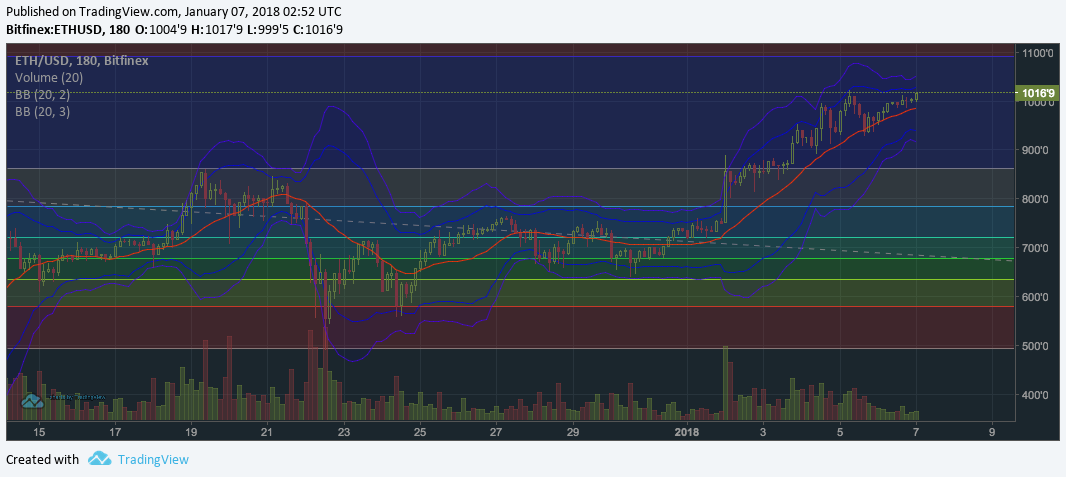
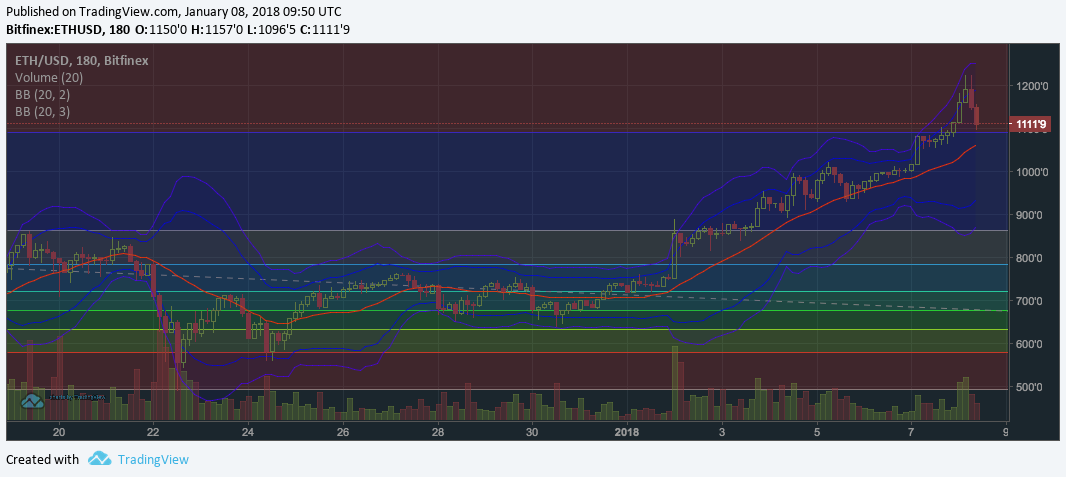
fibs

diff --git a/_includes/head.html b/_includes/head.html
@@ -3,7 +3,7 @@
 {% unless page.stories %}<meta name="Googlebot-News" content="noindex, nofollow">{% endunless %}
 
 <link rel="canonical" href="{{ page.url | replace:'index.html','' | prepend: site.baseurl | prepend: site.url }}">
-<link rel="alternate" hreflang="en-us" href="{{ page.url | replace:'index.html','' | prepend: site.baseurl | prepend: site.url }}">
+<link rel="alternate" hreflang="en" href="{{ page.url | replace:'index.html','' | prepend: site.baseurl | prepend: site.url }}">
 {% unless page.title %}<link rel="alternate" hreflang="de" href="https://de.altcointrading.net">{% endunless %}
 {% if page.german %}<link rel="alternate" hreflang="de" href="https://de.altcointrading.net/{{ page.german }}">{% endif %}
 

diff --git a/_includes/head-news.html b/_includes/head-news.html
@@ -3,7 +3,7 @@
 {% unless page.stories %}<meta name="Googlebot-News" content="noindex, nofollow">{% endunless %}
 
 <link rel="canonical" href="{{ page.url | replace:'index.html','' | prepend: site.baseurl | prepend: site.url }}">
-<link rel="alternate" hreflang="en-us" href="{{ page.url | replace:'index.html','' | prepend: site.baseurl | prepend: site.url }}">
+<link rel="alternate" hreflang="en" href="{{ page.url | replace:'index.html','' | prepend: site.baseurl | prepend: site.url }}">
 {% if page.german %}<link rel="alternate" hreflang="de" href="https://de.altcointrading.net/{{ page.german }}">{% endif %}
 
 <title>{% if page.title %}{{ page.title }}{% else %}{{ site.title }}{% endif %}</title>

diff --git a/_layouts/fibs.html b/_layouts/fibs.html
@@ -120,7 +120,7 @@ layout: default-news
               </section>
 
               <section>
-                
+
                 <h2>Fibs in a spreadsheet</h2>
 
               </section>
@@ -157,9 +157,7 @@ layout: default-news
               <h2>Archive</h2>
 
               <ul>
-              {% loop_directory directory:fibs/archive iterator:image filter:*.png sort:descending %}
-                 <li><a target="_blank" href="/fibs/archive/{{ image }}.png">{{ image }}</a></li>
-              {% endloop_directory %}
+                 <li><a target="_blank" href="https://github.com/AT-Publishing/website/commits/master/_fibs/daily.md">Versioned history</a></li>
               </ul>
 
 

diff --git a/_layouts/forestry.html b/_layouts/forestry.html
@@ -48,7 +48,7 @@ layout: default-news
             {{ site.ledger_728-90_animated }}
           </div>
           <div>
-            {{ content | replace: 'Coinbase ', site.ref.coinbase | replace: 'BitMEX ', site.ref.bitmex | replace: 'Ledger wallet ', site.ref.ledger | replace: '<a href="http', '<a rel="nofollow" target="_blank" href="http' }}
+            {{ content | replace: 'Coinbase', site.ref.coinbase | replace: 'BitMEX', site.ref.bitmex | replace: 'Ledger wallet', site.ref.ledger | replace: '<a href="http', '<a rel="nofollow" target="_blank" href="http' }}
           </div>
           <p>
             <em>

diff --git a/_fibs/daily.md b/_fibs/daily.md
@@ -1,7 +1,7 @@
 ---
 published: true
 date: 2017-12-27 10:36:00 +0100
-update: 2018-01-07 03:58:00 +0100
+update: 2018-01-08 10:58:00 +0100
 
 layout: fibs
 title: "Fib Levels for Crypto Markets"
@@ -17,20 +17,18 @@ name: "daily/"
 image: ["/features/fibs.jpeg"]
 
 dollars:
-- { market: "NEOUSD", chart: "/fibs/neousd.png", comment: "Bullish, now let's see if this current surge get's stopped by the fib or if it goes above and gets stopped by the bband. If it reverser at the fib it would make lower high relatively to the bbands which would be a weakness." }
-- { market: "ETHUSD", chart: "/fibs/ethusd.png", comment: "ETH is hanging in the middle of nowhere on the 1D but the bbands on 3H are tight, there will be some action soon - probably a bullish one." }
-- { market: "XRPUSD", chart: "/fibs/xrpusd.png", comment: "Consolidation. As with ETH - the bbands are tight and the bias is positive." }
-- { market: "BTCUSD", chart: "/fibs/btcusd.png", comment: "Not a good place to FOMO, bitcoin is still not past the resistances from the previous runup to 20k." }
-- { market: "IOTUSD", chart: "/fibs/iotusd.png", comment: "Another day of pretty much no action." }
+- { market: "BTCUSD", chart: "/fibs/btcusd.png", comment: "Bitcoin has failed to carry on with the bounce at the top of the resistance area around 17k. The retracement should find support somewhere between 14.2k and 15k - otherwise there will be blood on the streets." }
+- { market: "IOTUSD", chart: "/fibs/iotusd.png", comment: "Sadly, IOTA is following BTC but with less intensity." }
+- { market: "ETHUSD", chart: "/fibs/ethusd.png", comment: "Ether is the leader today: broke above the 1090 fib and retraced back as a throwback. Bullish." }
 
 ratios:
-- { market: "EOSBTC", chart: "/fibs/eosbtc.png", comment: "If you're watching the EOSBTC resistance area, the daily bbands are tightening as well. The markets are collectively in preparation for action." }
+- { market: "ETHBTC", chart: "/fibs/ethbtc.png", comment: "On the ratio market ETH is still in the resistance area. If bitcoin continues further down today, the ETH ratio will probably break upwards." }
 ---
 
 
 > Relevant news for today
 
-* [Kraken is getting on with their upgrade at last](https://www.reddit.com/r/BitcoinMarkets/comments/7oldkv/psa_kraken_is_carrying_out_a_system_upgrade_on/)
-* [Someone read the TRON whitepaper and had to warn others](https://www.reddit.com/r/CryptoCurrency/comments/7o85ld/i_just_read_trons_whitepaper_it_raises_more_red/)
-* [The TRON founder sold his tokens](https://www.reddit.com/r/ethtrader/comments/7oh01s/trx_tron_founder_justin_sun_sold_6billion_tron/)
-* [Some fundamental sentiment](https://i.imgur.com/8tQEo11.mp4)
+* [You need to update your Electrum wallets - all versions, even litecoin-electrum and electron for bcash once updates come](https://www.reddit.com/r/Bitcoin/comments/7ooack/critical_electrum_vulnerability/). If you updated to 3.0.4 that's [not enough](https://twitter.com/ElectrumWallet/status/950163143082299392?s=09&), there's a new version
+* [Microsoft stopped accepting BTC payments](https://www.bleepingcomputer.com/news/cryptocurrency/microsoft-halts-bitcoin-transactions-because-its-an-unstable-currency/)
+* [Binance re-enabled user signups](https://support.binance.com/hc/en-us/articles/115003834812-Binance-Re-opens-Limited-User-Registrations-and-Adjusts-Referral-Program-Terms) - [signup here](https://www.binance.com/?ref=15980293)
+* [Yesterday's AMA on r/IOTA](https://www.reddit.com/r/Iota/comments/7orp03/iota_foundation_ask_us_anything_january_7th/)

diff --git a/_strategy/2017-12-04-fibs.md b/_strategy/2017-12-04-fibs.md
@@ -11,6 +11,7 @@ categories: ['trading', 'bitcoin', 'altcoins', 'technical-analysis']
 tags: ['fibs', 'crypto-trading', 'technical-analysis', 'fibonacci-retracement']
 
 slug: "fibs/"
+cz: fibs
 
 image: ["/editorial/breadbutter2.jpg", "/strat/mystery.jpg", "/strat/fibs-btcusd2.png", "/strat/finexfibs.png"]
 image_alt: ["Fibonacci retracement is one of the most popular TA tools, and pretty much the only thing to go by when a pair is making new ATHs. Bread&butter image via Pexels."]

diff --git a/_posts/2018-01-07-altcoinio.md b/_posts/2018-01-07-altcoinio.md
@@ -19,13 +19,15 @@ stories: false
 note: 'Feature'
 genres: Blog
 
+permalink: "/altcoinio"
 german: false
+cz: altcoinio
+
 tickers: false
 
 title: "Review of Altcoin.io: Launching early in 2018, pre-registration available now."
 description: "New exchange built on atomic swaps with Josh Olzsewicz on board. You can play with the atomic swaps on testnet now."
 
-permalink: "/altcoinio"
 image:
 - "/features/altcoinio.png"
 - "/features/swap1.png"

diff --git a/_posts/2017-12-28-korea-arb.md b/_posts/2017-12-28-korea-arb.md
@@ -25,6 +25,7 @@ description: "To summarize what is known as everyone seems to be interested in t
 
 permalink: "/south-korea-arbitrage"
 german: false
+cz: arbitraz-jizni-korea
 
 image: ["/features/korea-premium.jpg"]
 image_alt: ["South Korean exchanges have been trading with significant premium for some time now - you can monitor it on cryptowat.ch if you set the third column to show prices in USD."]

diff --git a/_posts/2017-01-28-where-to-buy.md b/_posts/2017-01-28-where-to-buy.md
@@ -9,6 +9,7 @@ comments: false
 note: 'User Guide'
 
 german: 'kryptowahrung-kaufen/'
+cz: 'jak-koupit-kryptomeny'
 
 categories:
 - "exchanges"
